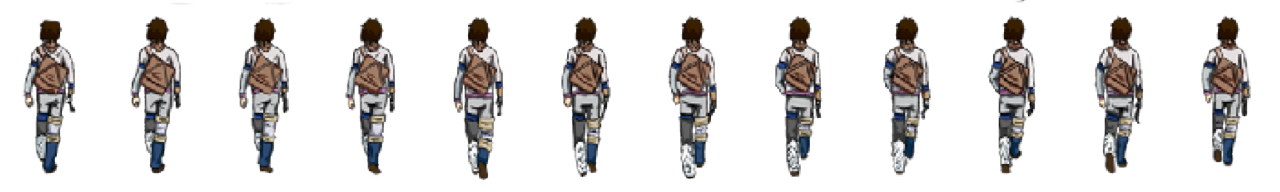
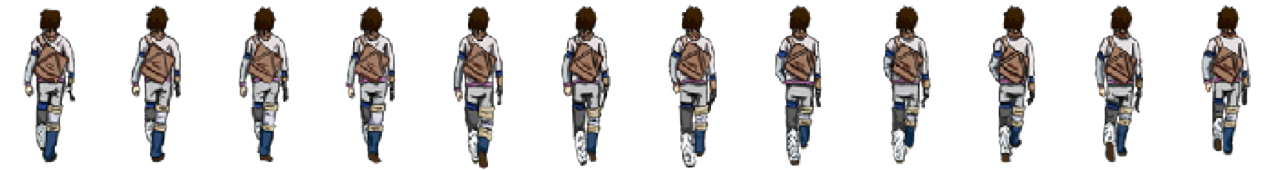
анимация

diff --git a/main_window.py b/main_window.py
@@ -11,7 +11,19 @@ left = False
 right = False
 up = False
 down = False
+pos = 0
 
+
+def animation(k, list):
+    a = k
+    if k == 0:
+        pass
+    if k + 1 >= 24:
+        k = 0
+    else:
+        a = k
+        k += 1
+    return list[a // 2]
 
 
 
@@ -53,14 +65,7 @@ class Player(pygame.sprite.Sprite):
 
             # if pygame.sprite.spritecollide(self, self.exit, True):
             #     self.end = True
-    def animation(self):
-        if self.k == 0:
-            pass
-        if self.k + 1 >= 24:
-            self.k = 0
-        if up:
-            self.image = walk_up[self.k // 2]
-            self.k += 1
+
 
 
 
@@ -181,6 +186,7 @@ class Mini_table(pygame.sprite.Sprite):
 
 
 def start():
+    pos = 0
     pygame.init()
     screen = pygame.display.set_mode([screen_width, screen_height])
     background_image = load_image('fonn.png')
@@ -190,7 +196,6 @@ def start():
     wall_list = pygame.sprite.Group()
 
     walk_up = cut_sheet(load_image('man_up.png'), 12, 1)
-    print(walk_up)
 
     wall_coords = [
         [0, 640, 640, 1],
@@ -247,13 +252,38 @@ def start():
 
         key = pygame.key.get_pressed()
         if key[pygame.K_RIGHT]:
-            player.step_x = 10
+            player.step_x = 5
+            left = False
+            right = True
+            up = False
+            down = False
         if key[pygame.K_LEFT]:
-            player.step_x = -10
+            player.step_x = -5
+            left = True
+            right = False
+            up = False
+            down = False
+
         if key[pygame.K_UP]:
-            player.step_y = -10
+            player.step_y = -5
+            left = False
+            right = False
+            up = True
+            down = False
+            if pos + 1 >= 24:
+                pos = 0
+            if up:
+                player.image = walk_up[pos // 2]
+                pos += 1
+            # player.image = animation(pos, walk_up)
+            # print(animation(pos, walk_up))
+
         if key[pygame.K_DOWN]:
-            player.step_y = 10
+            player.step_y = 5
+            left = False
+            right = False
+            up = False
+            down = True
             # elif event.type == pygame.KEYDOWN:
             #     if event.key == pygame.K_LEFT:
             #         player.step_x = -20
@@ -286,15 +316,15 @@ def start():
             #         down = False
             #         position_animation = 0
             #
-            if event.type == pygame.KEYUP:
-                if event.key == pygame.K_LEFT:
-                    player.step_x = 0
-                elif event.key == pygame.K_RIGHT:
-                    player.step_x = 0
-                elif event.key == pygame.K_UP:
-                    player.step_y = 0
-                elif event.key == pygame.K_DOWN:
-                    player.step_y = 0
+            # if event.type == pygame.KEYUP:
+            #     if event.key == pygame.K_LEFT:
+            #         player.step_x = 0
+            #     elif event.key == pygame.K_RIGHT:
+            #         player.step_x = 0
+            #     elif event.key == pygame.K_UP:
+            #         player.step_y = 0
+            #     elif event.key == pygame.K_DOWN:
+            #         player.step_y = 0
 
         screen.blit(background_image, (0, 0))
         screen.blit(carpet, (180, 350))
